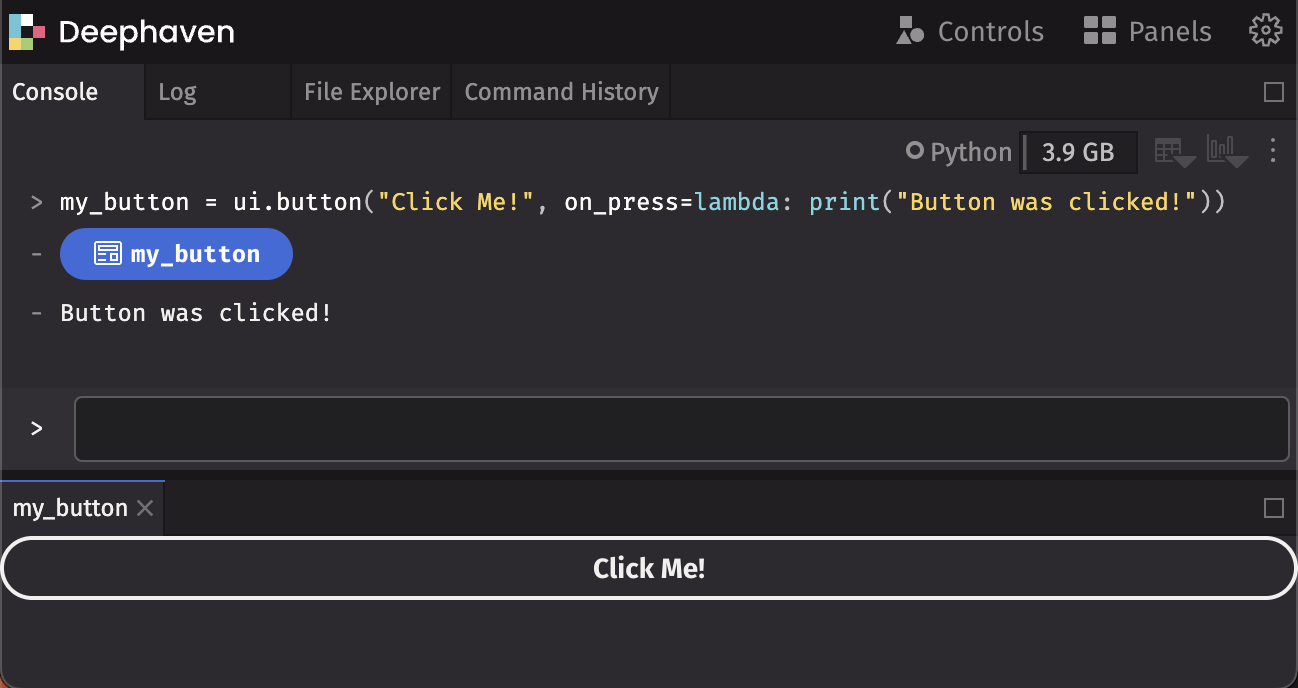
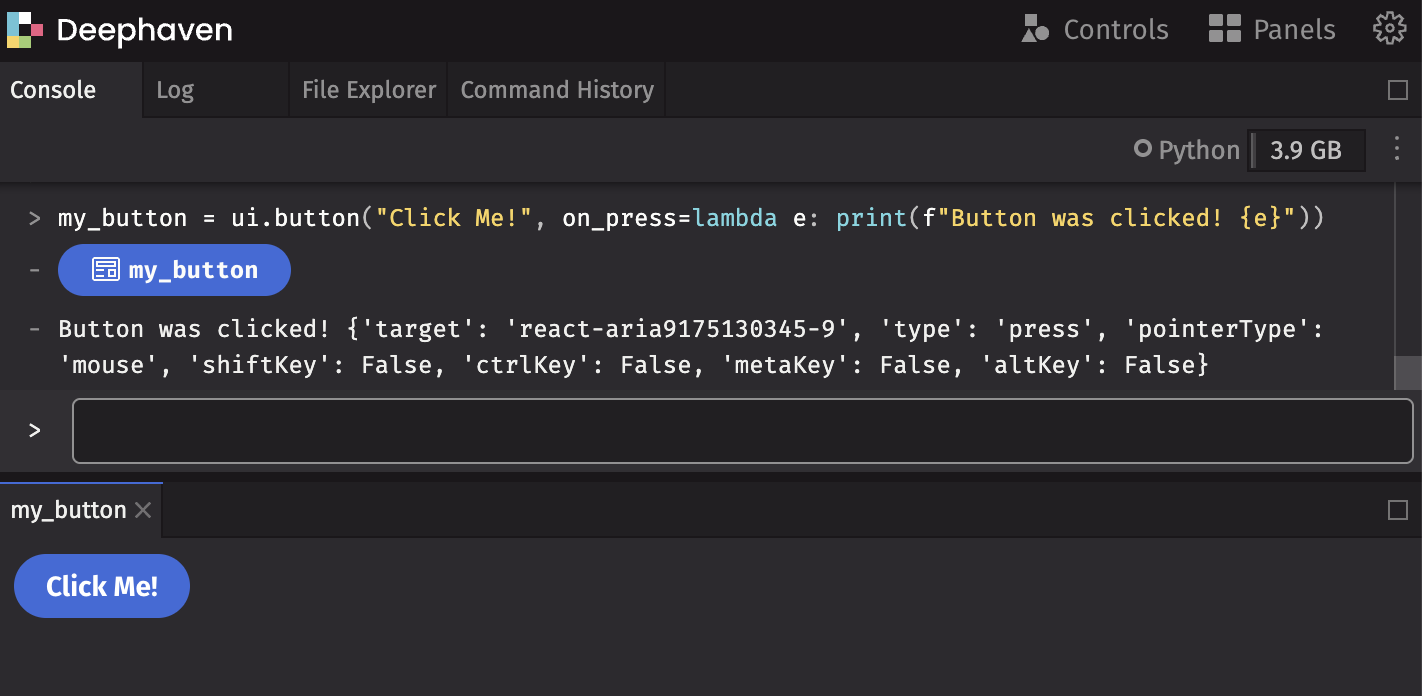
Update button event SS

diff --git a/plugins/ui/docs/README.md b/plugins/ui/docs/README.md
@@ -51,7 +51,7 @@ By assigning the component to the `hello_world` variable, it displays in the UI 
 Write functions to handle events. To write a button that will print event details to the console when clicked:
 
 ```python
-my_button = ui.button("Click Me!", on_press=lambda e: print(f"Button was clicked!"))
+my_button = ui.button("Click Me!", on_press=lambda e: print(f"Button was clicked! {e}"))
 ```
 
 ![Whenever the button is pressed, event details are printed to the console.](_assets/handling_events.png)
